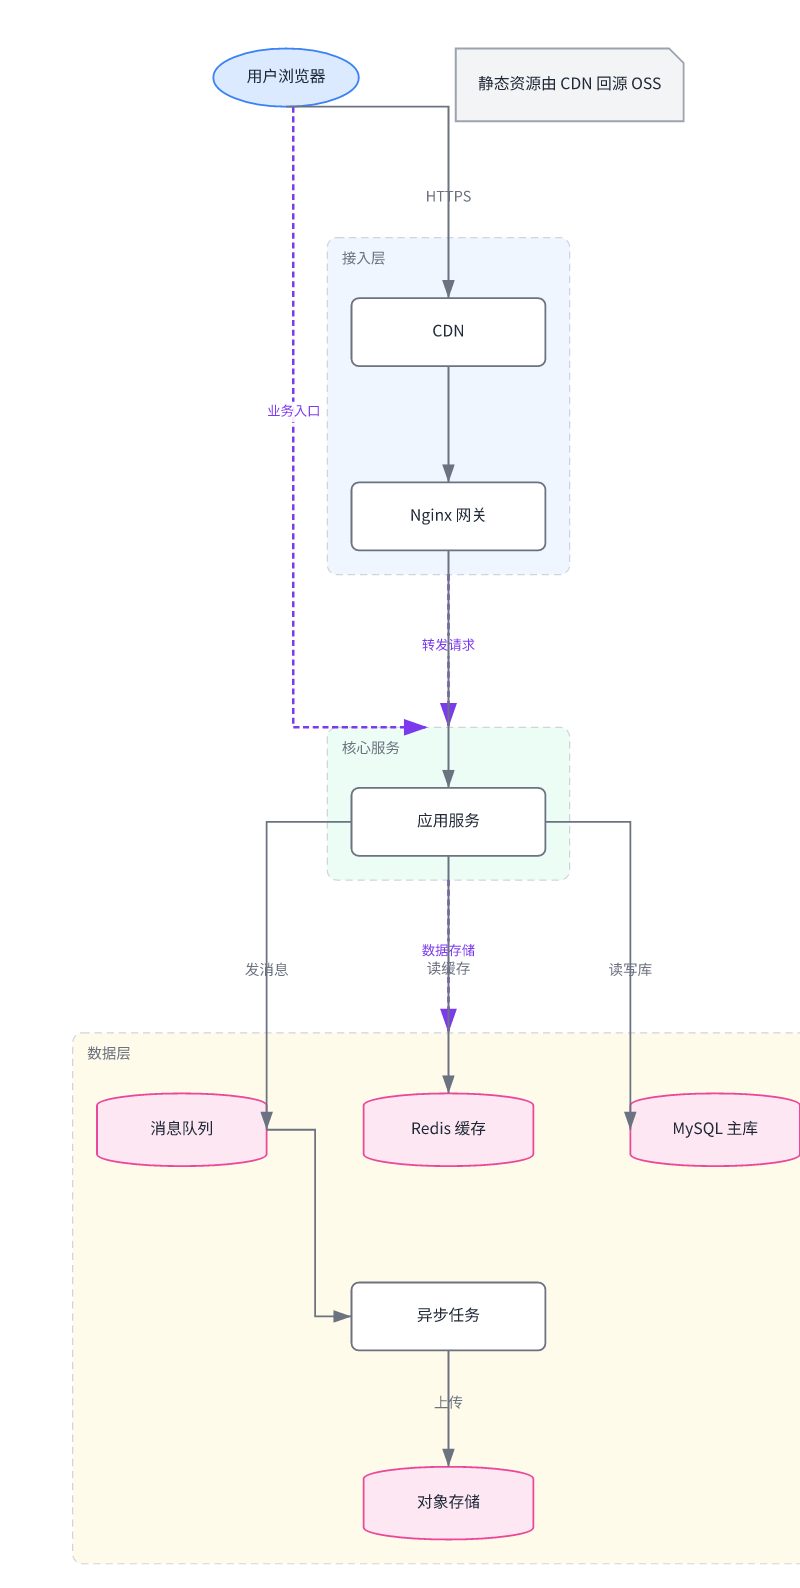
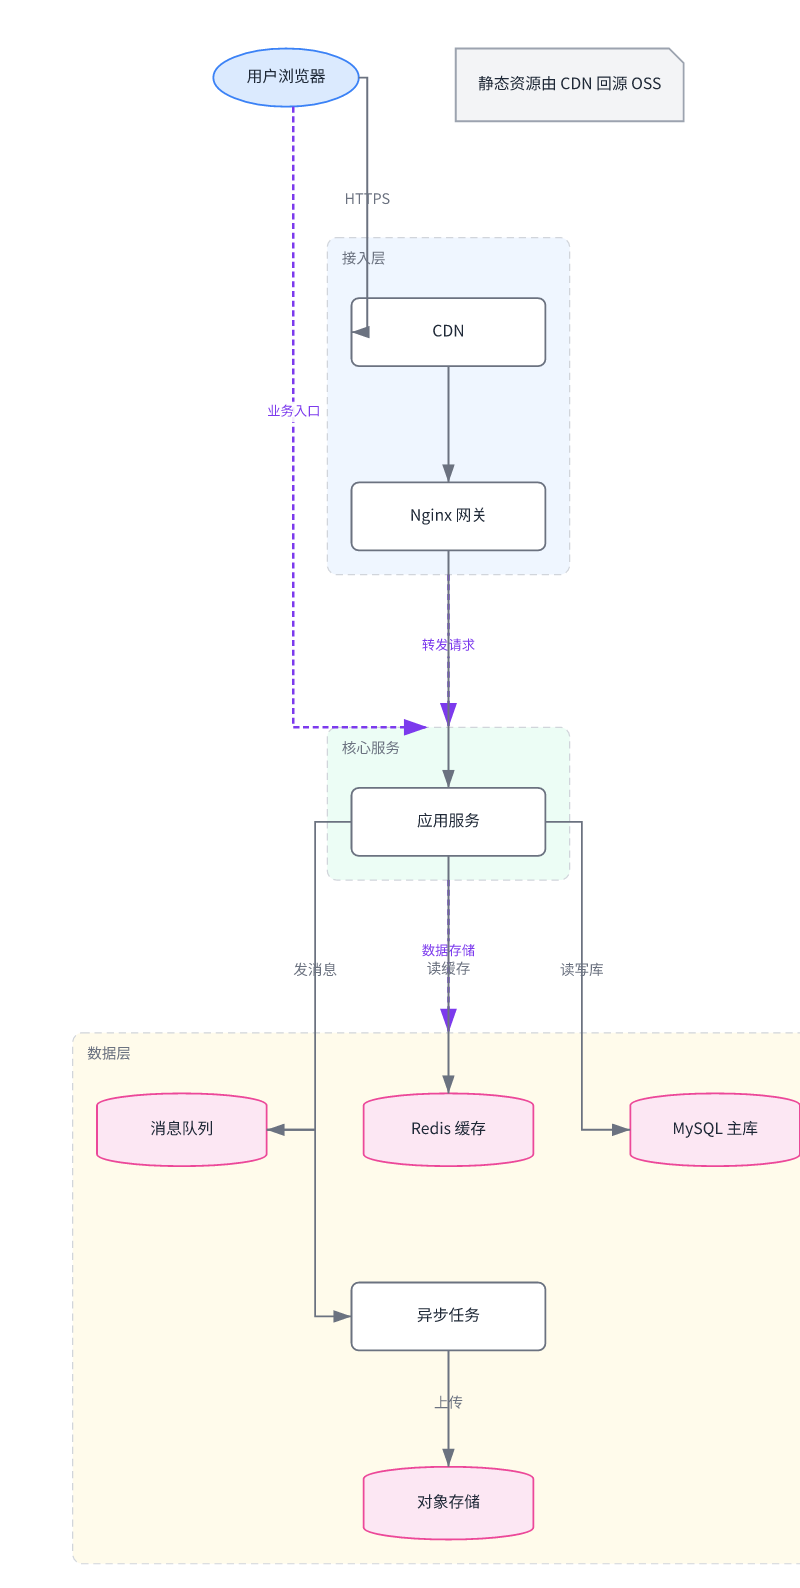
fix(render): 重路由触发阈值 12→6，避免把干净下落错误地推到目标侧壁
用户指出：消息队列右侧的竖直下落线仍贴着 mq 右壁。
根因：app->mq 的正交化本已在 x=260（离 mq 右壁 40px）干净下落，但
pathClearanceInterior 因离自身核心服务组左壁(x=270)仅 10px 而报低分(<12)，
触发了重路由，被推到 x=220 贴着 mq 右壁下落。

修复：重路由阈值 12→6，只有真穿越障碍或贴墙近乎贴合(<6px)才重路由；
10px 的间隔属于正常，不再触发。app->mq 现保持 x=260 干净下落再横进 mq。

经逐边扫描验证：architecture 贴边/穿越 3→0，其余示例无回归，测试全绿。

diff --git a/packages/render/src/index.ts b/packages/render/src/index.ts
@@ -316,7 +316,12 @@ function buildEdgePath(
     if (Math.abs(trimmed[i].x - trimmed[i - 1].x) < 0.5 && Math.abs(trimmed[i].y - trimmed[i - 1].y) < 0.5) trimmed.splice(i, 1);
   }
   let ortho = orthogonalize(trimmed, routeBoxes);
-  if (pathCrosses(ortho, routeBoxes) || pathClearanceInterior(ortho, scoreBoxes) < 12) {
+  // Re-route only when the path truly CROSSES an obstacle, or an interior leg
+  // hugs a wall almost flush (< 6px — a real "贴边" glue). A modest 10px gap to
+  // the edge's OWN group wall is fine and must not trigger a reroute, which
+  // would otherwise push the drop onto a worse column (e.g. app->mq dropped at
+  // x=260, a clean 40px clear of mq, was rerouted to ride mq's right wall).
+  if (pathCrosses(ortho, routeBoxes) || pathClearanceInterior(ortho, scoreBoxes) < 6) {
     ortho = routeRectilinear(trimmed[0], trimmed[trimmed.length - 1], routeBoxes, ortho, scoreBoxes);
   }
   return ortho;
